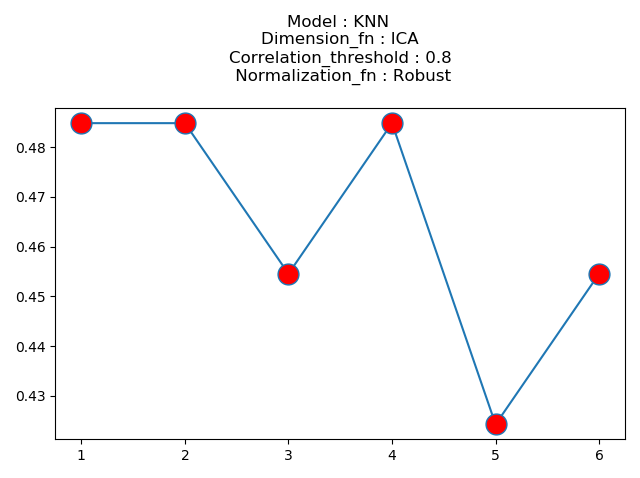
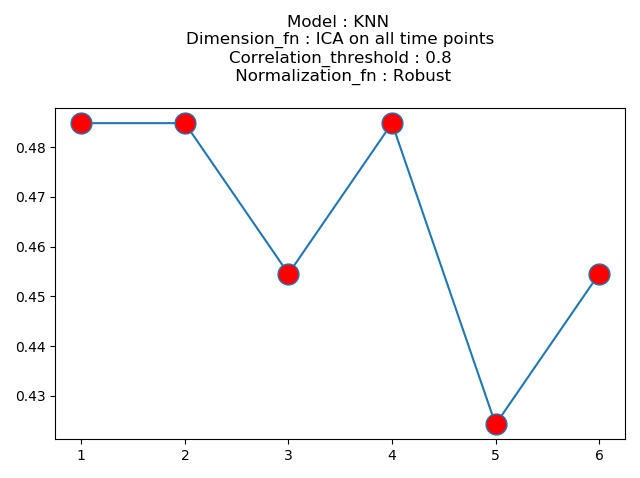
modifying the ICA plot to be more verbose

Changed region(s): [[0.2812, 0.0586, 0.7812, 0.1172]]

diff --git a/Main.py b/Main.py
@@ -80,6 +80,6 @@ for neighbors in range(1,Constants.MAX_NIGH):
 
 """Plot the results"""
 plt.plot(range(1,Constants.MAX_NIGH),percentage,marker='o',markersize=15,markerfacecolor='red')
-plt.title('Model : KNN \n'+'Dimension_fn : '+str(dimension_fn_name)+'\n'+'Correlation_threshold : '+str(Constants.THRESHOLD)+'\n Normalization_fn : '+str(normalization_fn_name+'\n'))
+plt.title('Model : KNN \n'+'Dimension_fn : '+str(dimension_fn_name)+' on all time points'+'\n'+'Correlation_threshold : '+str(Constants.THRESHOLD)+'\n Normalization_fn : '+str(normalization_fn_name+'\n'))
 plt.tight_layout()
 plt.show()
